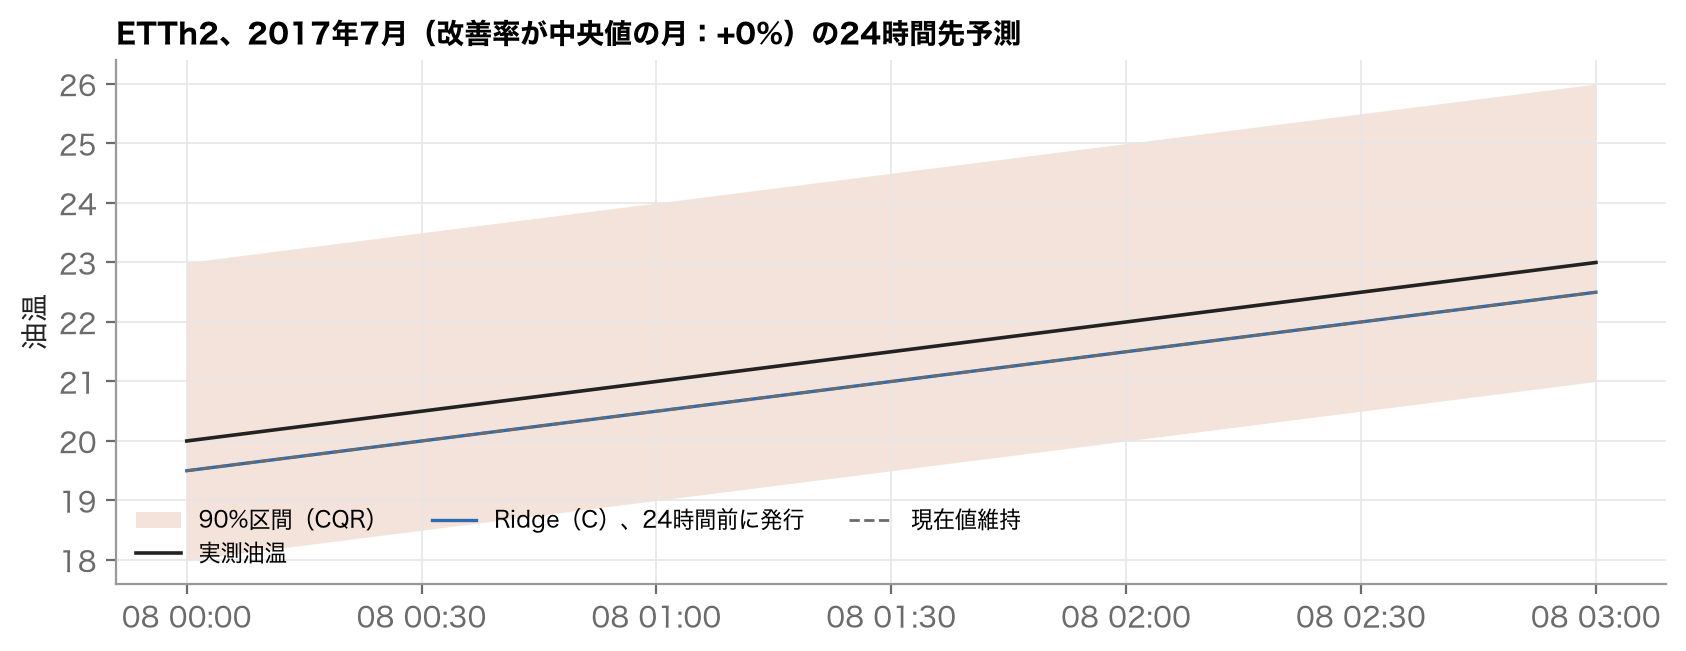
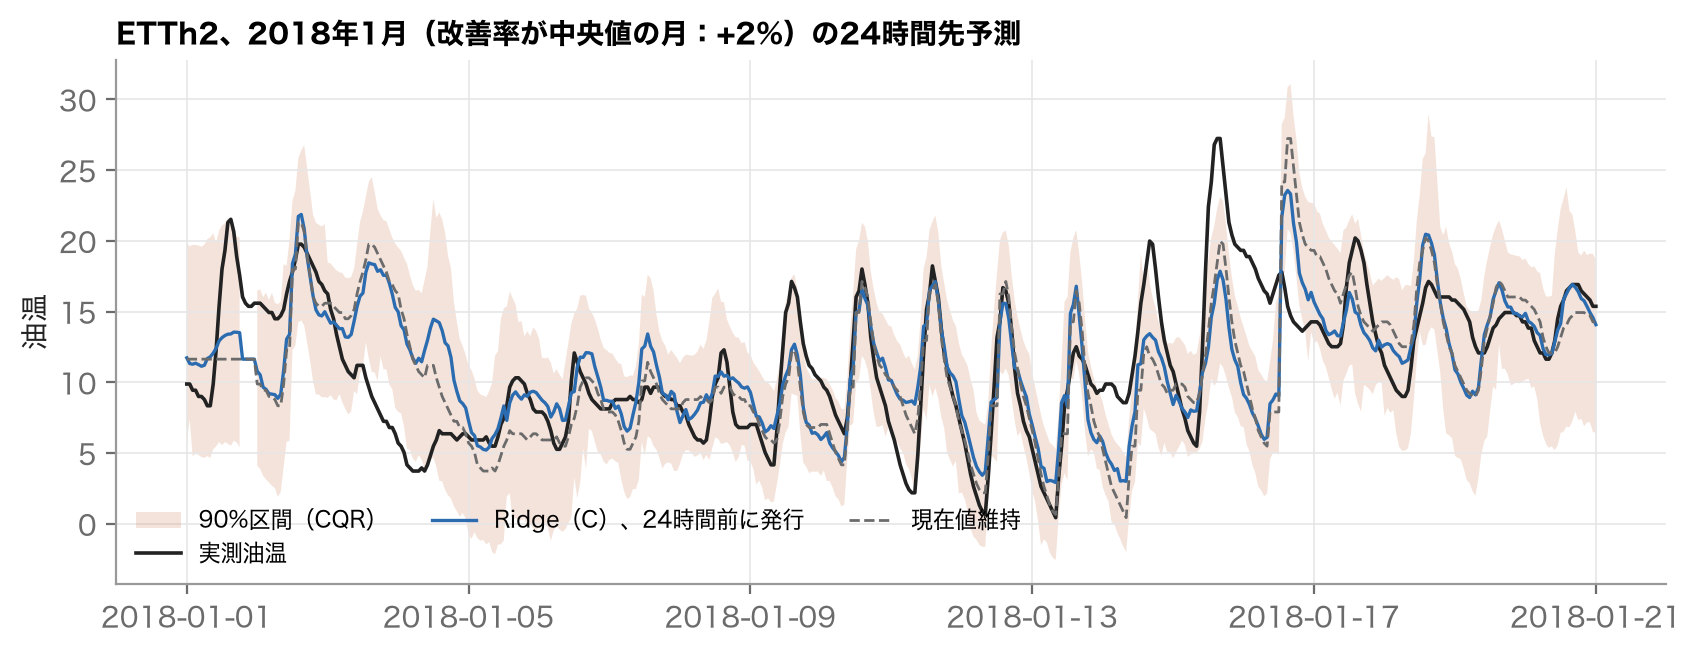
Fix: resolve the Japanese figure folder per save, so tests cannot overwrite real figures; regenerate the JA example chart

diff --git a/src/ettpoc/plotting.py b/src/ettpoc/plotting.py
@@ -43,7 +43,6 @@ plt.rcParams.update(
 
 
 JA_FONT = ["Hiragino Sans", "Hiragino Kaku Gothic ProN", "DejaVu Sans"]
-JA_DIR = C.FIG_DIR / "ja"
 
 
 def save(fig, name):
@@ -70,6 +69,7 @@ def save(fig, name):
         text.set_fontfamily(JA_FONT)
     if missing:
         print(f"  ! {name}: no Japanese text for {sorted(missing)}", flush=True)
-    JA_DIR.mkdir(parents=True, exist_ok=True)
-    fig.savefig(JA_DIR / f"{name}.png")
+    ja_dir = C.FIG_DIR / "ja"  # resolved per call, so a redirected FIG_DIR is respected
+    ja_dir.mkdir(parents=True, exist_ok=True)
+    fig.savefig(ja_dir / f"{name}.png")
     plt.close(fig)

diff --git a/tests/test_report.py b/tests/test_report.py
@@ -27,3 +27,4 @@ def test_example_forecast_figure_uses_current_alert_inputs(monkeypatch, tmp_path
     report.fig_example(pd.DataFrame(records))
 
     assert (tmp_path / "res_example_forecast.png").is_file()
+    assert (tmp_path / "ja" / "res_example_forecast.png").is_file()
